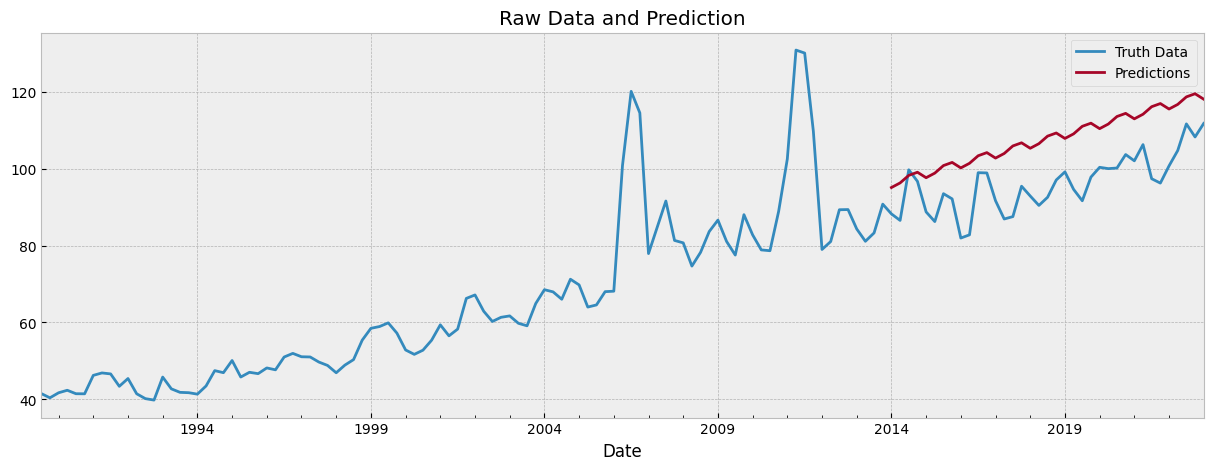
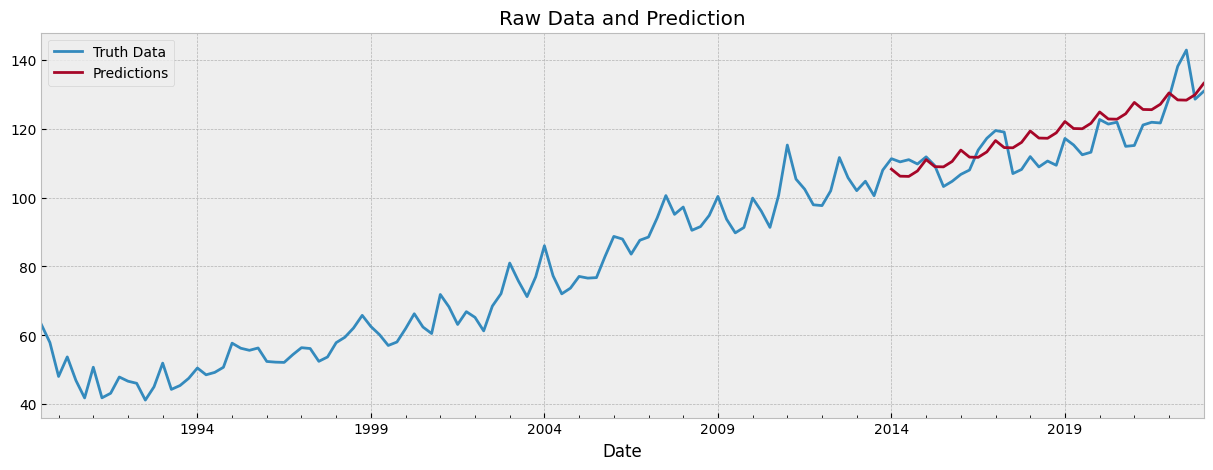
updated forecasting

diff --git a/flask_integration/Template/mico-html/templates/forecast.html b/flask_integration/Template/mico-html/templates/forecast.html
@@ -1,108 +1,239 @@
 <!DOCTYPE html>
 <html>
+  <head>
+    <!-- Basic -->
+    <meta charset="utf-8" />
+    <meta http-equiv="X-UA-Compatible" content="IE=edge" />
+    <!-- Mobile Metas -->
+    <meta
+      name="viewport"
+      content="width=device-width, initial-scale=1, shrink-to-fit=no"
+    />
+    <!-- Site Metas -->
+    <meta name="keywords" content="" />
+    <meta name="description" content="" />
+    <meta name="author" content="" />
 
-<head>
-  <!-- Basic -->
-  <meta charset="utf-8" />
-  <meta http-equiv="X-UA-Compatible" content="IE=edge" />
-  <!-- Mobile Metas -->
-  <meta name="viewport" content="width=device-width, initial-scale=1, shrink-to-fit=no" />
-  <!-- Site Metas -->
-  <meta name="keywords" content="" />
-  <meta name="description" content="" />
-  <meta name="author" content="" />
+    <title>Forecast</title>
+    <link
+      rel="stylesheet"
+      href="https://stackpath.bootstrapcdn.com/bootstrap/4.3.1/css/bootstrap.min.css"
+      integrity="sha384-ggOyR0iXCbMQv3Xipma34MD+dH/1fQ784/j6cY/iJTQUOhcWr7x9JvoRxT2MZw1T"
+      crossorigin="anonymous"
+    />
 
-  <title>Forecast</title>
-  
     <!-- fonts style -->
-    <link href="https://fonts.googleapis.com/css2?family=Roboto:wght@400;500;700;900&display=swap" rel="stylesheet">
+    <link
+      href="https://fonts.googleapis.com/css2?family=Roboto:wght@400;500;700;900&display=swap"
+      rel="stylesheet"
+    />
 
     <!--owl slider stylesheet -->
-    <link rel="stylesheet" type="text/css"
-      href="https://cdnjs.cloudflare.com/ajax/libs/OwlCarousel2/2.3.4/assets/owl.carousel.min.css" />
+    <link
+      rel="stylesheet"
+      type="text/css"
+      href="https://cdnjs.cloudflare.com/ajax/libs/OwlCarousel2/2.3.4/assets/owl.carousel.min.css"
+    />
     <!-- nice select -->
-    <link rel="stylesheet"
+    <link
+      rel="stylesheet"
       href="https://cdnjs.cloudflare.com/ajax/libs/jquery-nice-select/1.1.0/css/nice-select.min.css"
-      integrity="sha256-mLBIhmBvigTFWPSCtvdu6a76T+3Xyt+K571hupeFLg4=" crossorigin="anonymous" />
+      integrity="sha256-mLBIhmBvigTFWPSCtvdu6a76T+3Xyt+K571hupeFLg4="
+      crossorigin="anonymous"
+    />
     <!-- datepicker -->
-    <link rel="stylesheet" href="https://cdnjs.cloudflare.com/ajax/libs/bootstrap-datepicker/1.3.0/css/datepicker.css">
+    <link
+      rel="stylesheet"
+      href="https://cdnjs.cloudflare.com/ajax/libs/bootstrap-datepicker/1.3.0/css/datepicker.css"
+    />
     <!-- Custom styles for this template -->
     <!-- responsive style -->
-    <script src="https://cdnjs.cloudflare.com/ajax/libs/popper.js/1.11.0/umd/popper.min.js" integrity="sha384-b/U6ypiBEHpOf/4+1nzFpr53nxSS+GLCkfwBdFNTxtclqqenISfwAzpKaMNFNmj4" crossorigin="anonymous"></script>
-    <script src="https://cdn.jsdelivr.net/npm/@popperjs/core@2.9.2/dist/umd/popper.min.js" ></script>
     <script src="https://code.jquery.com/jquery-1.10.2.js"></script>
-    
 
-    <link rel="stylesheet" href="{{ url_for('static', filename= 'css/style.css') }}">
-    <link rel="stylesheet" type="text/css" href="{{ url_for('static', filename= 'css/bootstrap.css') }}">
-    <link rel="stylesheet" href="{{ url_for('static', filename= 'css/font-awesome.min.css') }}">
-    <link rel="stylesheet" href="{{ url_for('static', filename= 'css/responsive.css') }}">
+    <link
+      rel="stylesheet"
+      href="{{ url_for('static', filename= 'css/style.css') }}"
+    />
+    <link
+      rel="stylesheet"
+      href="{{ url_for('static', filename= 'css/font-awesome.min.css') }}"
+    />
+    <link
+      rel="stylesheet"
+      href="{{ url_for('static', filename= 'css/responsive.css') }}"
+    />
 
-    <script src = "{{ url_for('static', filename = 'js/bootstrap.js') }}" ></script>
     <script src="{{ url_for('static', filename='js/jquery-3.4.1.min.js') }}"></script>
     <script src="{{ url_for('static', filename='js/custom.js') }}"></script>
 
-    <link href="https://cdn.jsdelivr.net/npm/bootstrap@5.0.0/dist/css/bootstrap.min.css" rel="stylesheet" >
-    
-    <script src="https://cdn.jsdelivr.net/npm/bootstrap@5.0.1/dist/js/bootstrap.min.js" integrity="sha384-Atwg2Pkwv9vp0ygtn1JAojH0nYbwNJLPhwyoVbhoPwBhjQPR5VtM2+xf0Uwh9KtT" crossorigin="anonymous"></script>
+    <link
+      href="https://cdn.jsdelivr.net/npm/bootstrap@5.0.0/dist/css/bootstrap.min.css"
+      rel="stylesheet"
+    />
 
+    <script
+      src="https://cdn.jsdelivr.net/npm/bootstrap@5.0.1/dist/js/bootstrap.min.js"
+      integrity="sha384-Atwg2Pkwv9vp0ygtn1JAojH0nYbwNJLPhwyoVbhoPwBhjQPR5VtM2+xf0Uwh9KtT"
+      crossorigin="anonymous"
+    ></script>
+    <script
+      src="https://cdnjs.cloudflare.com/ajax/libs/popper.js/1.14.7/umd/popper.min.js"
+      integrity="sha384-UO2eT0CpHqdSJQ6hJty5KVphtPhzWj9WO1clHTMGa3JDZwrnQq4sF86dIHNDz0W1"
+      crossorigin="anonymous"
+    ></script>
+    <script
+      src="https://stackpath.bootstrapcdn.com/bootstrap/4.3.1/js/bootstrap.min.js"
+      integrity="sha384-JjSmVgyd0p3pXB1rRibZUAYoIIy6OrQ6VrjIEaFf/nJGzIxFDsf4x0xIM+B07jRM"
+      crossorigin="anonymous"
+    ></script>
+  </head>
 
-</head>
+  <body class="sub_page">
+    <div class="hero_area">
+      <!-- header section strats -->
+      <header class="header_section">
+        <div class="header_bottom">
+          <div class="container-fluid">
+            <!--Navigation bar-->
+            <div id="nav-placeholder"></div>
 
-<body class="sub_page">
-
-  <div class="hero_area">
-    <!-- header section strats -->
-    <header class="header_section">
-      <div class="header_bottom">
-        <div class="container-fluid">
-                <!--Navigation bar-->
-                <div id="nav-placeholder">
-
-                </div>
-
-                <script>
-                  $(function () {
-                    $("#nav-placeholder").load("/navi");
-                  });
-                </script>
-                <!--end of Navigation bar-->
+            <script>
+              $(function () {
+                $("#nav-placeholder").load("/navi");
+              });
+            </script>
+            <!--end of Navigation bar-->
+          </div>
         </div>
-      </div>
-    </header>
-    <!-- end header section -->
-  </div>
-
-<!-- Forecast section -->
-<section class ="graphbox">
-    <h1>Input Data</h1>
-    
-    <div class="dropdown show">
-      <a class="btn btn-secondary dropdown-toggle" href="#" role="button" id="dropdownMenuLink" data-toggle="dropdown" aria-haspopup="true" aria-expanded="false">
-        Dropdown link
-      </a>
-    
-      <div class="dropdown-menu" aria-labelledby="dropdownMenuLink">
-        <a class="dropdown-item" href="#">Action</a>
-        <a class="dropdown-item" href="#">Another action</a>
-        <a class="dropdown-item" href="#">Something else here</a>
-      </div>
+      </header>
+      <!-- end header section -->
     </div>
-    <div>
-      <form action="/process" method="POST" style="padding-top:30px">
-          <label for="data_input">Enter Data:</label>
-          <input type="text" id="data_input" name="data">
-          <button type="submit">Submit</button>
+
+    <!-- Forecast section -->
+    <section class="pretext">
+      <h1>Forecast Prices</h1>
+      <p>
+        Use the dropdown below to select the product category which you are interested in forecasting. Then click the submit button to run a linear regression on the data
+        data provided by the ABS. Note that this linear regression uses both year and quarter as the main factors in its analysis.
+      </p>
+    </section>
+    <section class="graphbox">
+      
+      <form action="/process" method="POST" style="padding-top: 30px">
+        <select
+          class="form-select"
+          aria-label="Default select example"
+          id="operator"
+          name="operator"
+        >
+          <option selected name="data">Choose a product</option>
+          <option value="Lamb and goat">Lamb and goat</option>
+          <option value="Wine">Wine</option>
+          <option value="Food additives and condiments">
+            Food additives and condiments
+          </option>
+          <option value="Other meats">Other meats</option>
+          <option value="Garments for men">Garments for men</option>
+          <option value="Cheese">Cheese</option>
+          <option value="Garments">Garments</option>
+          <option value="Bread">Bread</option>
+          <option value="Fruit">Fruit</option>
+          <option value="Footwear for men">Footwear for men</option>
+          <option value="Ice cream and other dairy products">
+            Ice cream and other dairy products
+          </option>
+          <option value="Meals out and take away foods">
+            Meals out and take away foods
+          </option>
+          <option value="Poultry">Poultry</option>
+          <option value="Restaurant meals">Restaurant meals</option>
+          <option value="Glassware, tableware and household utensils">
+            Glassware, tableware and household utensils
+          </option>
+          <option value="Garments for women">Garments for women</option>
+          <option value="Other non-durable household products">
+            Other non-durable household products
+          </option>
+          <option value="Beer">Beer</option>
+          <option value="Eggs">Eggs</option>
+          <option value="Oils and fats">Oils and fats</option>
+          <option value="Waters, soft drinks and juices">
+            Waters, soft drinks and juices
+          </option>
+          <option value="Other food products n.e.c.">
+            Other food products n.e.c.
+          </option>
+          <option value="Food products n.e.c.">Food products n.e.c.</option>
+          <option value="Footwear for women">Footwear for women</option>
+          <option value="Meat and seafoods">Meat and seafoods</option>
+          <option value="Snacks and confectionery">
+            Snacks and confectionery
+          </option>
+          <option value="Beef and veal">Beef and veal</option>
+          <option value="Take away and fast foods">
+            Take away and fast foods
+          </option>
+          <option value="Other cereal products">Other cereal products</option>
+          <option value="Cakes and biscuits">Cakes and biscuits</option>
+          <option value="Coffee, tea and cocoa">Coffee, tea and cocoa</option>
+          <option value="Jams, honey and spreads">
+            Jams, honey and spreads
+          </option>
+          <option value="Books">Books</option>
+          <option value="Dairy and related products">
+            Dairy and related products
+          </option>
+          <option value="Tobacco">Tobacco</option>
+          <option value="Alcohol and tobacco">Alcohol and tobacco</option>
+          <option value="Pork">Pork</option>
+          <option value="Garments for infants and children">
+            Garments for infants and children
+          </option>
+          <option value="Clothing and footwear">Clothing and footwear</option>
+          <option value="Bread and cereal products">
+            Bread and cereal products
+          </option>
+          <option value="Personal care products">Personal care products</option>
+          <option value="Breakfast cereals">Breakfast cereals</option>
+          <option value="Fish and other seafood">Fish and other seafood</option>
+          <option value="Non-alcoholic beverages">
+            Non-alcoholic beverages
+          </option>
+          <option value="Spirits">Spirits</option>
+          <option value="Non-durable household products">
+            Non-durable household products
+          </option>
+          <option value="Footwear for infants and children">
+            Footwear for infants and children
+          </option>
+          <option value="Cleaning and maintenance products">
+            Cleaning and maintenance products
+          </option>
+          <option value="Newspapers, books and stationery">
+            Newspapers, books and stationery
+          </option>
+          <option value="Milk">Milk</option>
+          <option value="Household appliances, utensils and tools">
+            Household appliances, utensils and tools
+          </option>
+          <option value="Newspapers, magazines and stationery">
+            Newspapers, magazines and stationery
+          </option>
+          <option value="Vegetables">Vegetables</option>
+          <option value="Footwear">Footwear</option>
+          <option value="Alcoholic beverages">Alcoholic beverages</option>
+          <option value="Fruit and vegetables">Fruit and vegetables</option>
+          <option value="Furniture">Furniture</option>
+        </select>
+
+        <button class="btn btn-primary" type="submit" style="margin-top:15px">Submit</button>
       </form>
-    </div>
-    <h2>Graph</h2>
+      <h2>Graph</h2>
 
-    {% if plot_url %}
-      <img src = {{plot_url}}>
-    {% endif %}
-    <script>
-
-    </script>
-  </section>
-</body>
+      {% if plot_url %}
+      <img src="{{plot_url}}" />
+      {% endif %}
+      <script></script>
+    </section>
+  </body>
 </html>

diff --git a/flask_integration/Template/mico-html/regression.py b/flask_integration/Template/mico-html/regression.py
@@ -1,4 +1,4 @@
-def regress():
+def regress(product):
     import pandas as pd
     import numpy as np
     import matplotlib.pyplot as plt
@@ -11,7 +11,7 @@ def regress():
     plt.style.use('bmh')
     
     df = pd.read_csv('./output.csv')
-    df = df[df['Product'] == 'Fruit']
+    df = df[df['Product'] == product]
     df = df.groupby(['Date'])['Index Value'].mean().reset_index()
     df = df.sort_values(by='Date')
     df = df.set_index('Date')

diff --git a/flask_integration/Template/mico-html/flasktest.py b/flask_integration/Template/mico-html/flasktest.py
@@ -45,7 +45,12 @@ def forecast():
 
 def process():
     from regression import regress
-    regress()
-    data = request.form.get('data')  # Get user input from the form
-    
+
+    data = request.form['operator']
+    regress(data)
+    print(data)
+
     return render_template('forecast.html', plot_url = "static/plot.png")
+
+if __name__ == "__main__":
+    app.run(debug=True)
